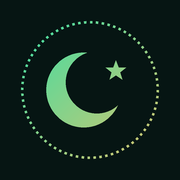
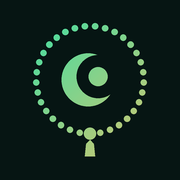
Add files via upload

diff --git a/index.html b/index.html
@@ -7,8 +7,7 @@
 <meta name="theme-color" content="#071a17">
 <meta name="description" content="Dzikir pagi dan petang lengkap dengan penghitung, pengingat, dan sumber hadits.">
 <link rel="manifest" href="manifest.json">
-<link rel="icon" type="image/svg+xml" href="icons/icon.svg">
-<link rel="icon" type="image/png" sizes="32x32" href="icons/favicon-32.png">
[1 lines of base64/hex data omitted]
 <link rel="apple-touch-icon" href="icons/apple-touch-icon.png">
 <meta name="mobile-web-app-capable" content="yes">
 <meta name="apple-mobile-web-app-capable" content="yes">
@@ -140,12 +139,8 @@ footer{margin:26px 0 14px;text-align:center;color:var(--mut);font-size:13px}
 <svg width="0" height="0" style="position:absolute" aria-hidden="true"><defs>
   <linearGradient id="g" x1="0" y1="0" x2="1" y2="1"><stop offset="0" style="stop-color:var(--a)"/><stop offset="1" style="stop-color:var(--b)"/></linearGradient>
   <linearGradient id="lg" gradientUnits="userSpaceOnUse" x1="0" y1="0" x2="512" y2="512"><stop offset="0" style="stop-color:var(--a)"/><stop offset="1" style="stop-color:var(--b)"/></linearGradient>
-  <mask id="lm"><rect width="512" height="512" fill="#000"/><circle cx="236" cy="256" r="118" fill="#fff"/><circle cx="278" cy="232" r="98" fill="#000"/></mask>
-  <symbol id="logo" viewBox="0 0 512 512">
-    <circle cx="256" cy="256" r="214" fill="none" stroke="url(#lg)" stroke-width="8" pathLength="72" stroke-dasharray="0.4 0.6"/>
-    <rect width="512" height="512" fill="url(#lg)" mask="url(#lm)"/>
-    <polygon points="338.0,162.0 346.2,184.7 370.3,185.5 351.3,200.3 358.0,223.5 338.0,210.0 318.0,223.5 324.7,200.3 305.7,185.5 329.8,184.7" fill="url(#lg)"/>
-  </symbol>
+  <mask id="lm"><rect width="512" height="512" fill="#000"/><circle cx="250" cy="224" r="84" fill="#fff"/><circle cx="282" cy="214" r="68" fill="#000"/></mask>
+  <symbol id="logo" viewBox="0 0 512 512"><g fill="url(#lg)"><circle cx="256.0" cy="394.0" r="19"/><circle cx="223.8" cy="390.9" r="10"/><circle cx="192.8" cy="381.8" r="10"/><circle cx="164.1" cy="367.0" r="10"/><circle cx="138.7" cy="347.0" r="10"/><circle cx="117.5" cy="322.6" r="10"/><circle cx="101.4" cy="294.6" r="10"/><circle cx="90.8" cy="264.1" r="10"/><circle cx="86.2" cy="232.1" r="10"/><circle cx="87.7" cy="199.8" r="10"/><circle cx="95.3" cy="168.4" r="10"/><circle cx="108.8" cy="139.0" r="10"/><circle cx="127.5" cy="112.7" r="10"/><circle cx="150.9" cy="90.4" r="10"/><circle cx="178.1" cy="72.9" r="10"/><circle cx="208.1" cy="60.9" r="10"/><circle cx="239.8" cy="54.8" r="10"/><circle cx="272.2" cy="54.8" r="10"/><circle cx="303.9" cy="60.9" r="10"/><circle cx="333.9" cy="72.9" r="10"/><circle cx="361.1" cy="90.4" r="10"/><circle cx="384.5" cy="112.7" r="10"/><circle cx="403.2" cy="139.0" r="10"/><circle cx="416.7" cy="168.4" r="10"/><circle cx="424.3" cy="199.8" r="10"/><circle cx="425.8" cy="232.1" r="10"/><circle cx="421.2" cy="264.1" r="10"/><circle cx="410.6" cy="294.6" r="10"/><circle cx="394.5" cy="322.6" r="10"/><circle cx="373.3" cy="347.0" r="10"/><circle cx="347.9" cy="367.0" r="10"/><circle cx="319.2" cy="381.8" r="10"/><circle cx="288.2" cy="390.9" r="10"/><polygon points="256,414 268,426 272,466 240,466 244,426"/><circle cx="282" cy="214" r="30"/></g><rect width="512" height="512" fill="url(#lg)" mask="url(#lm)"/></symbol>
 </defs></svg>
 
 <script>

diff --git a/sw.js b/sw.js
@@ -1,6 +1,6 @@
-const CACHE = 'dzikirku-v3';
+const CACHE = 'dzikirku-v4';
 const ASSETS = [
-  './', './index.html', './manifest.json',
+  './', './index.html', './manifest.json', './favicon.ico',
   './icons/icon.svg', './icons/icon-192.png', './icons/icon-512.png',
   './icons/icon-maskable-512.png', './icons/apple-touch-icon.png', './icons/favicon-32.png'
 ];
